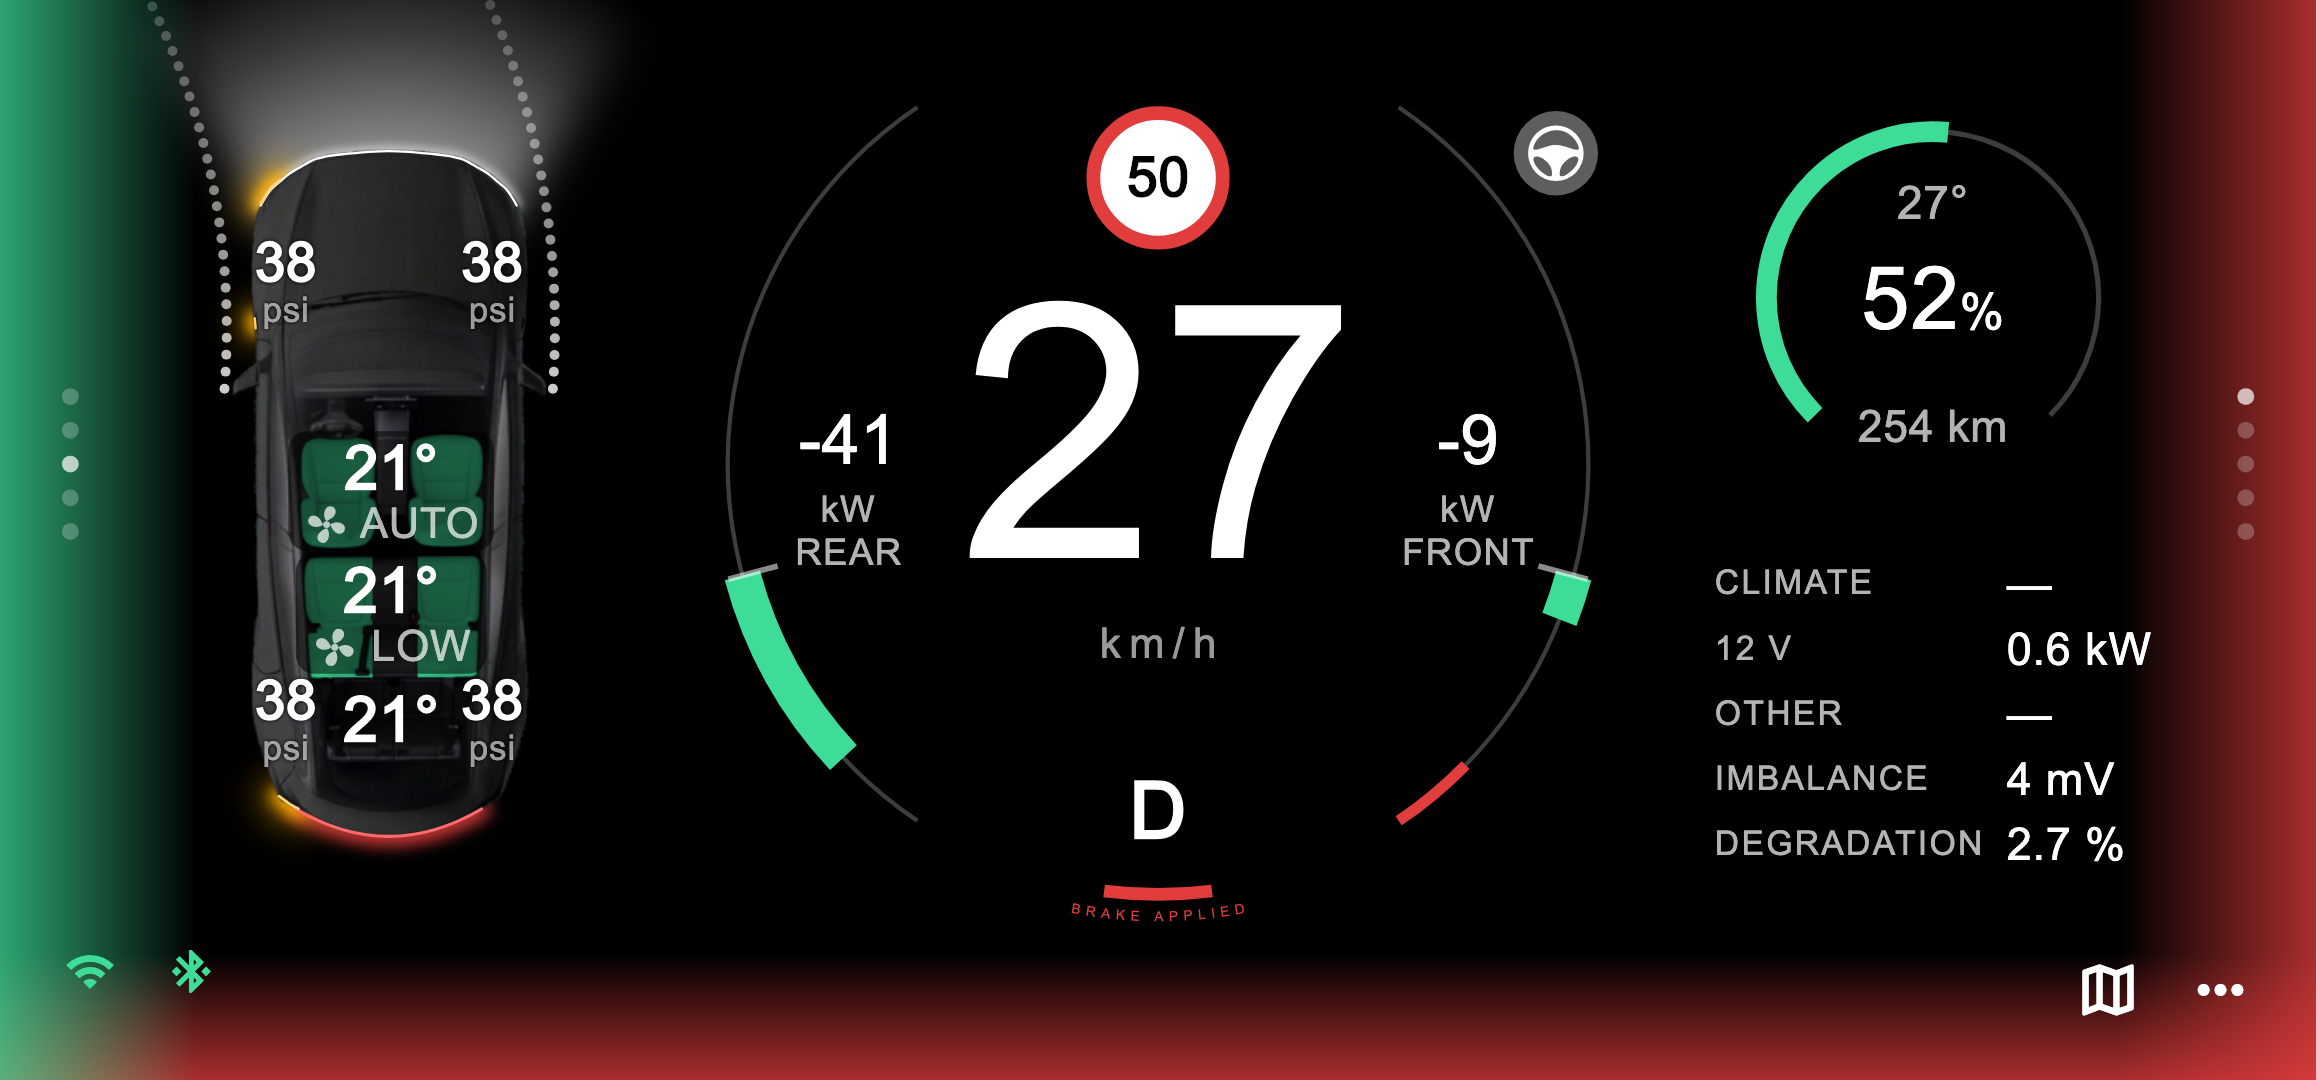
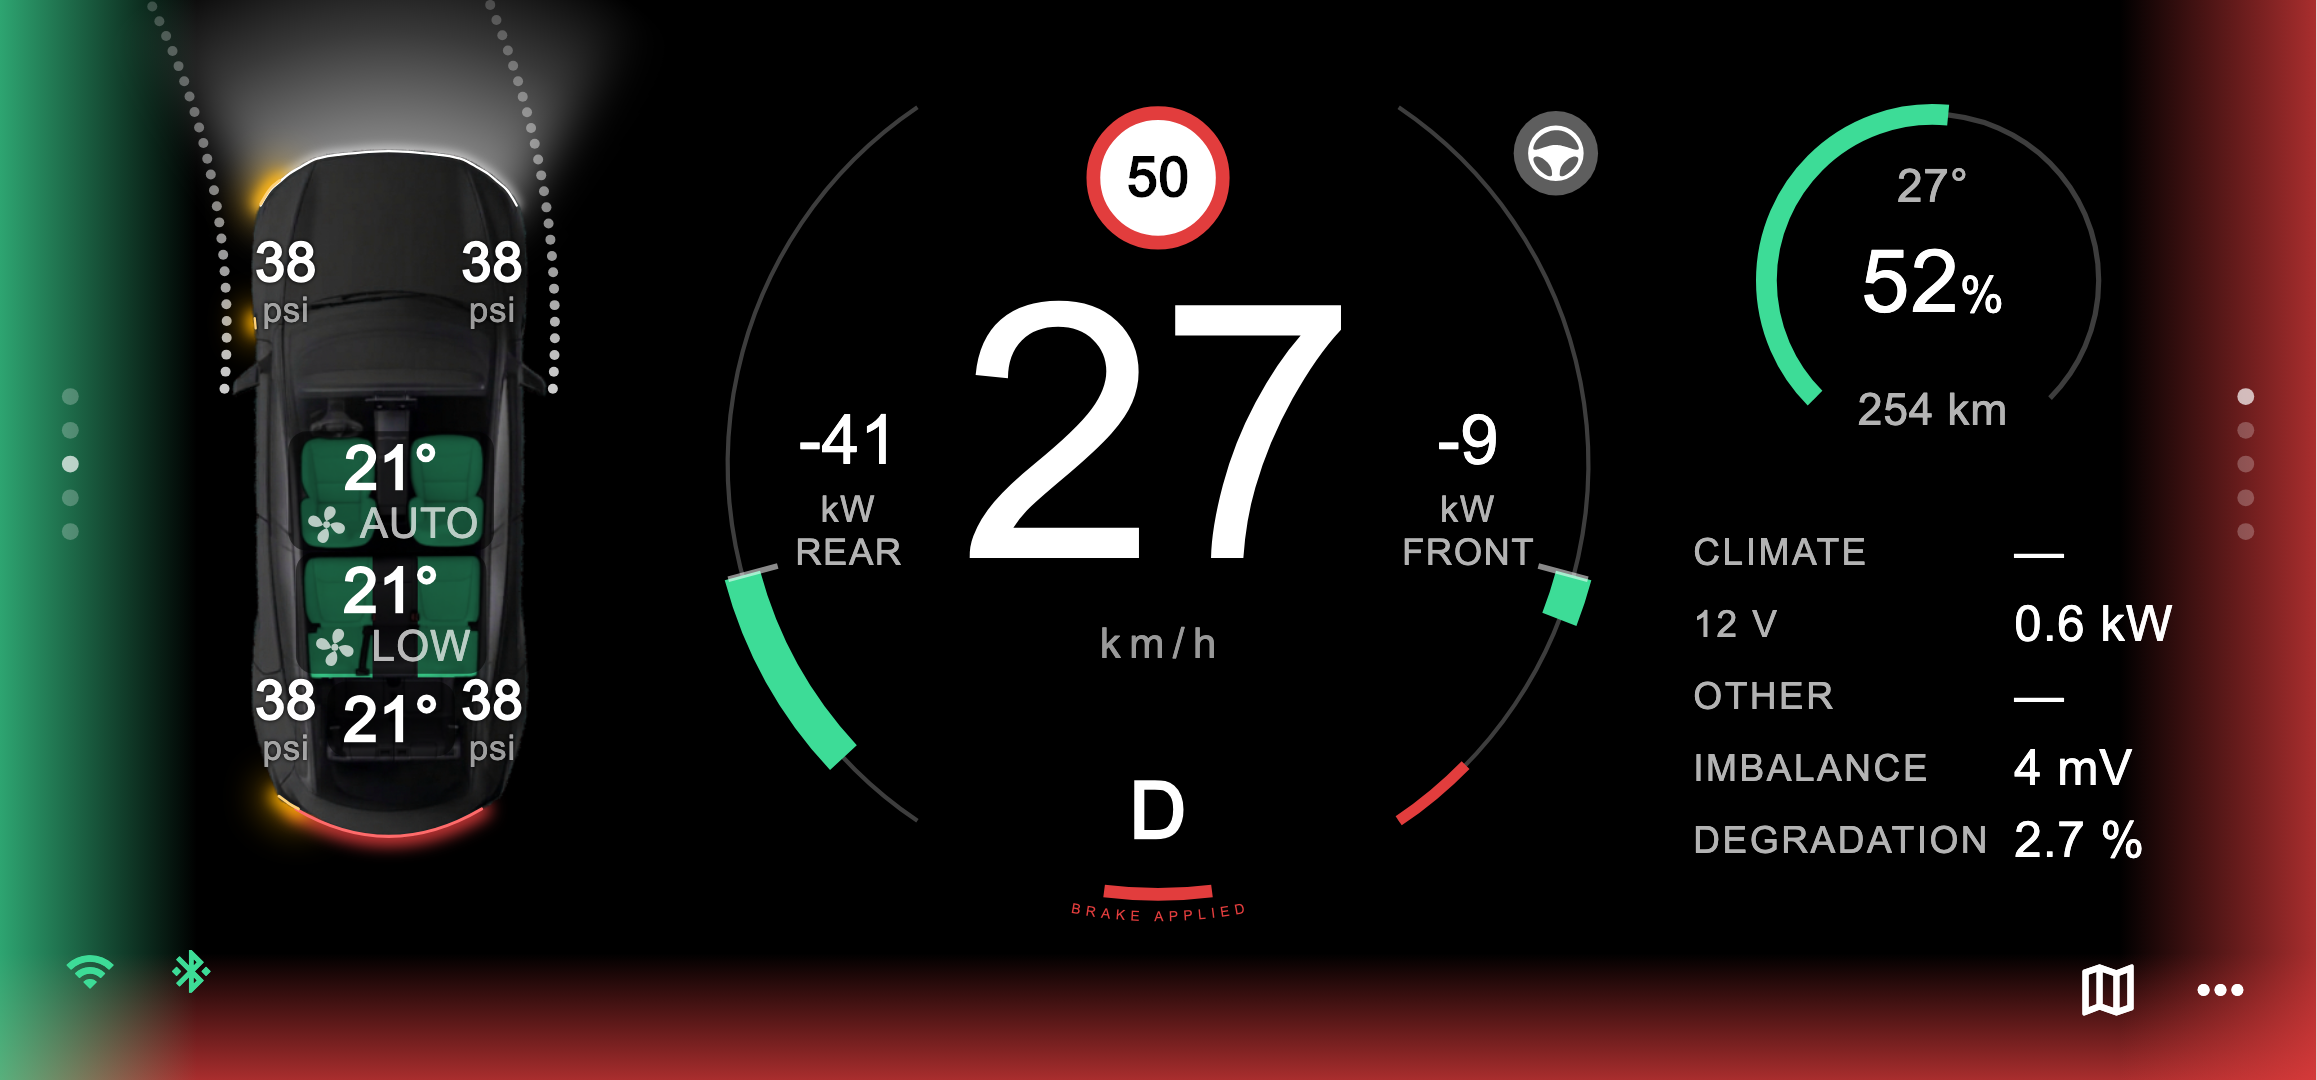
Basic layout: the figures' rows and the route a tenth over the full layout's size

diff --git a/test/dash_shot_test.dart b/test/dash_shot_test.dart
@@ -380,9 +380,9 @@ void main() {
     expect(find.text('Central Market'), findsOneWidget);
     // At arrival: the battery, and what the route takes of it now (52 %).
     expect(find.text('47% −5', findRichText: true), findsOneWidget);
-    // The route's values the full layout's figures' size on screen (16 at a
-    // 1.1 line), not scaled up with the card.
-    expect(t.getRect(find.text('9 min')).height, closeTo(16 * 1.1, 0.6));
+    // The route's values the figures' size on screen (16 a little enlarged,
+    // at a 1.1 line), not scaled up with the card.
+    expect(t.getRect(find.text('9 min')).height, closeTo(16 * kBasicFigures * 1.1, 0.6));
     await shot('basic-2');
     // Every card on either side: the left stack on to the route as well.
     await swipe(left, 3);
@@ -400,12 +400,12 @@ void main() {
     expect(t.getRect(find.image(const AssetImage('assets/car/car.png'))).height, greaterThan(255));
     expect(t.getRect(find.text('38').first).height, greaterThan(19));
     await shot('basic-3');
-    // The battery dial and the figures' rows as big on screen as in the full
-    // layout: not scaled up with the rest of the card.
+    // The battery dial as big on screen as in the full layout, the figures'
+    // rows a little bigger: neither scaled up with the rest of the card.
     await t.pumpWidget(MaterialApp(theme: kTheme, home: DashPage(demo: o, bt: Commander())));
     await t.pump(const Duration(milliseconds: 300));
     expect(t.getRect(find.text('52%', findRichText: true)).height, closeTo(basicPct, 0.5));
-    expect(t.getRect(find.text('DEGRADATION')).height, closeTo(basicRow, 0.5));
+    expect(basicRow / t.getRect(find.text('DEGRADATION')).height, closeTo(kBasicFigures, 0.03));
     await t.pumpWidget(const SizedBox());
   });
 

diff --git a/lib/main.dart b/lib/main.dart
@@ -73,6 +73,10 @@ const kBasicCards = <Set<int>>[
   {0x238, 0x347, 0x3FD, 0x33A, 0x352}, // route: on a route, energy and minutes, battery now
 ];
 
+/// The basic layout's figures' rows and route, over the full layout's size on
+/// screen (the rest of its cards are bigger still).
+const kBasicFigures = 1.1;
+
 /// The ids the basic layout has no use for with these two cards showing.
 Set<int> basicSkip(int left, int right) {
   final need = {...kBasicBase, ...kBasicCards[left], ...kBasicCards[right]};
@@ -1013,9 +1017,10 @@ class _DashPageState extends State<DashPage> {
   /// the route. Both stacks hold every card, so either side shows any; each
   /// side's card is kept. The assist state is at the ring's top right.
   Widget _basicRow(Panda o) {
-    // The figures' rows (label and value) as on the full layout's screen,
-    // not scaled up with the rest: next to the ring they read as notes.
-    const small = 1 / _CardsState._scale;
+    // The figures' rows (label and value) and the route a little over the
+    // full layout's size on screen ([kBasicFigures]), not scaled up with the
+    // rest: next to the ring they read as notes.
+    const small = kBasicFigures / _CardsState._scale;
     List<Widget> cards() => [
           Column(children: [
             // The dial as big on screen as in the full layout: next to the
